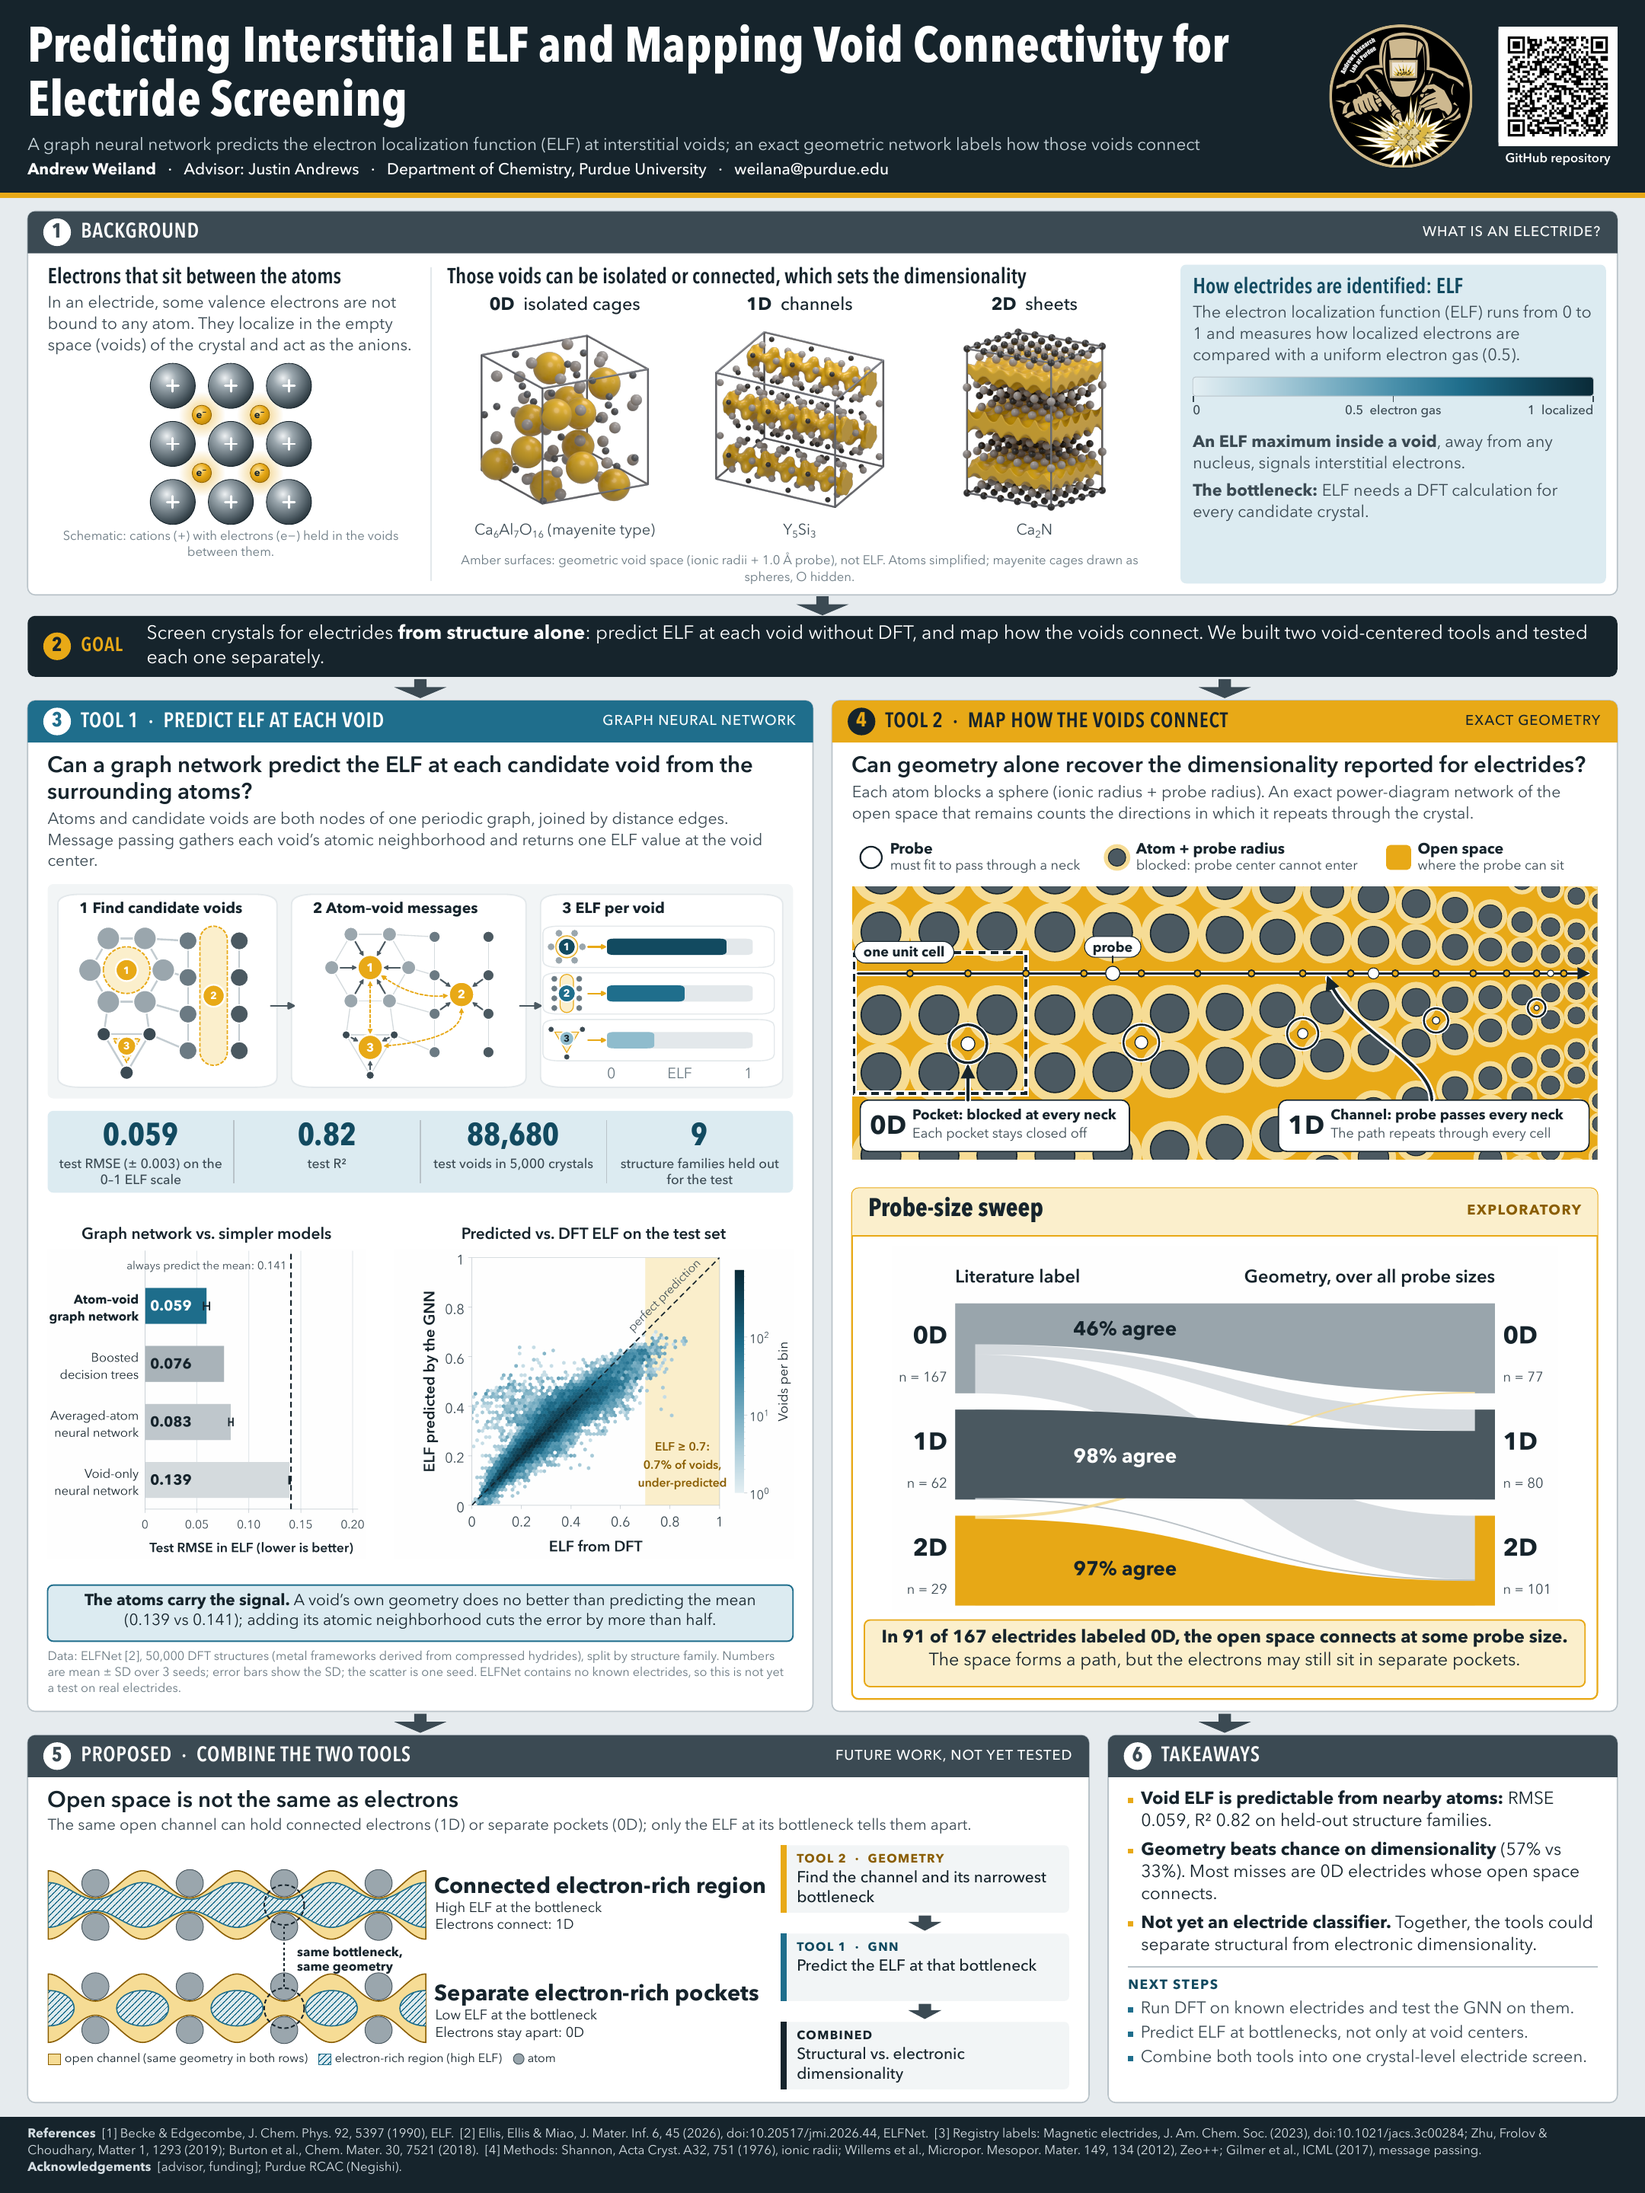
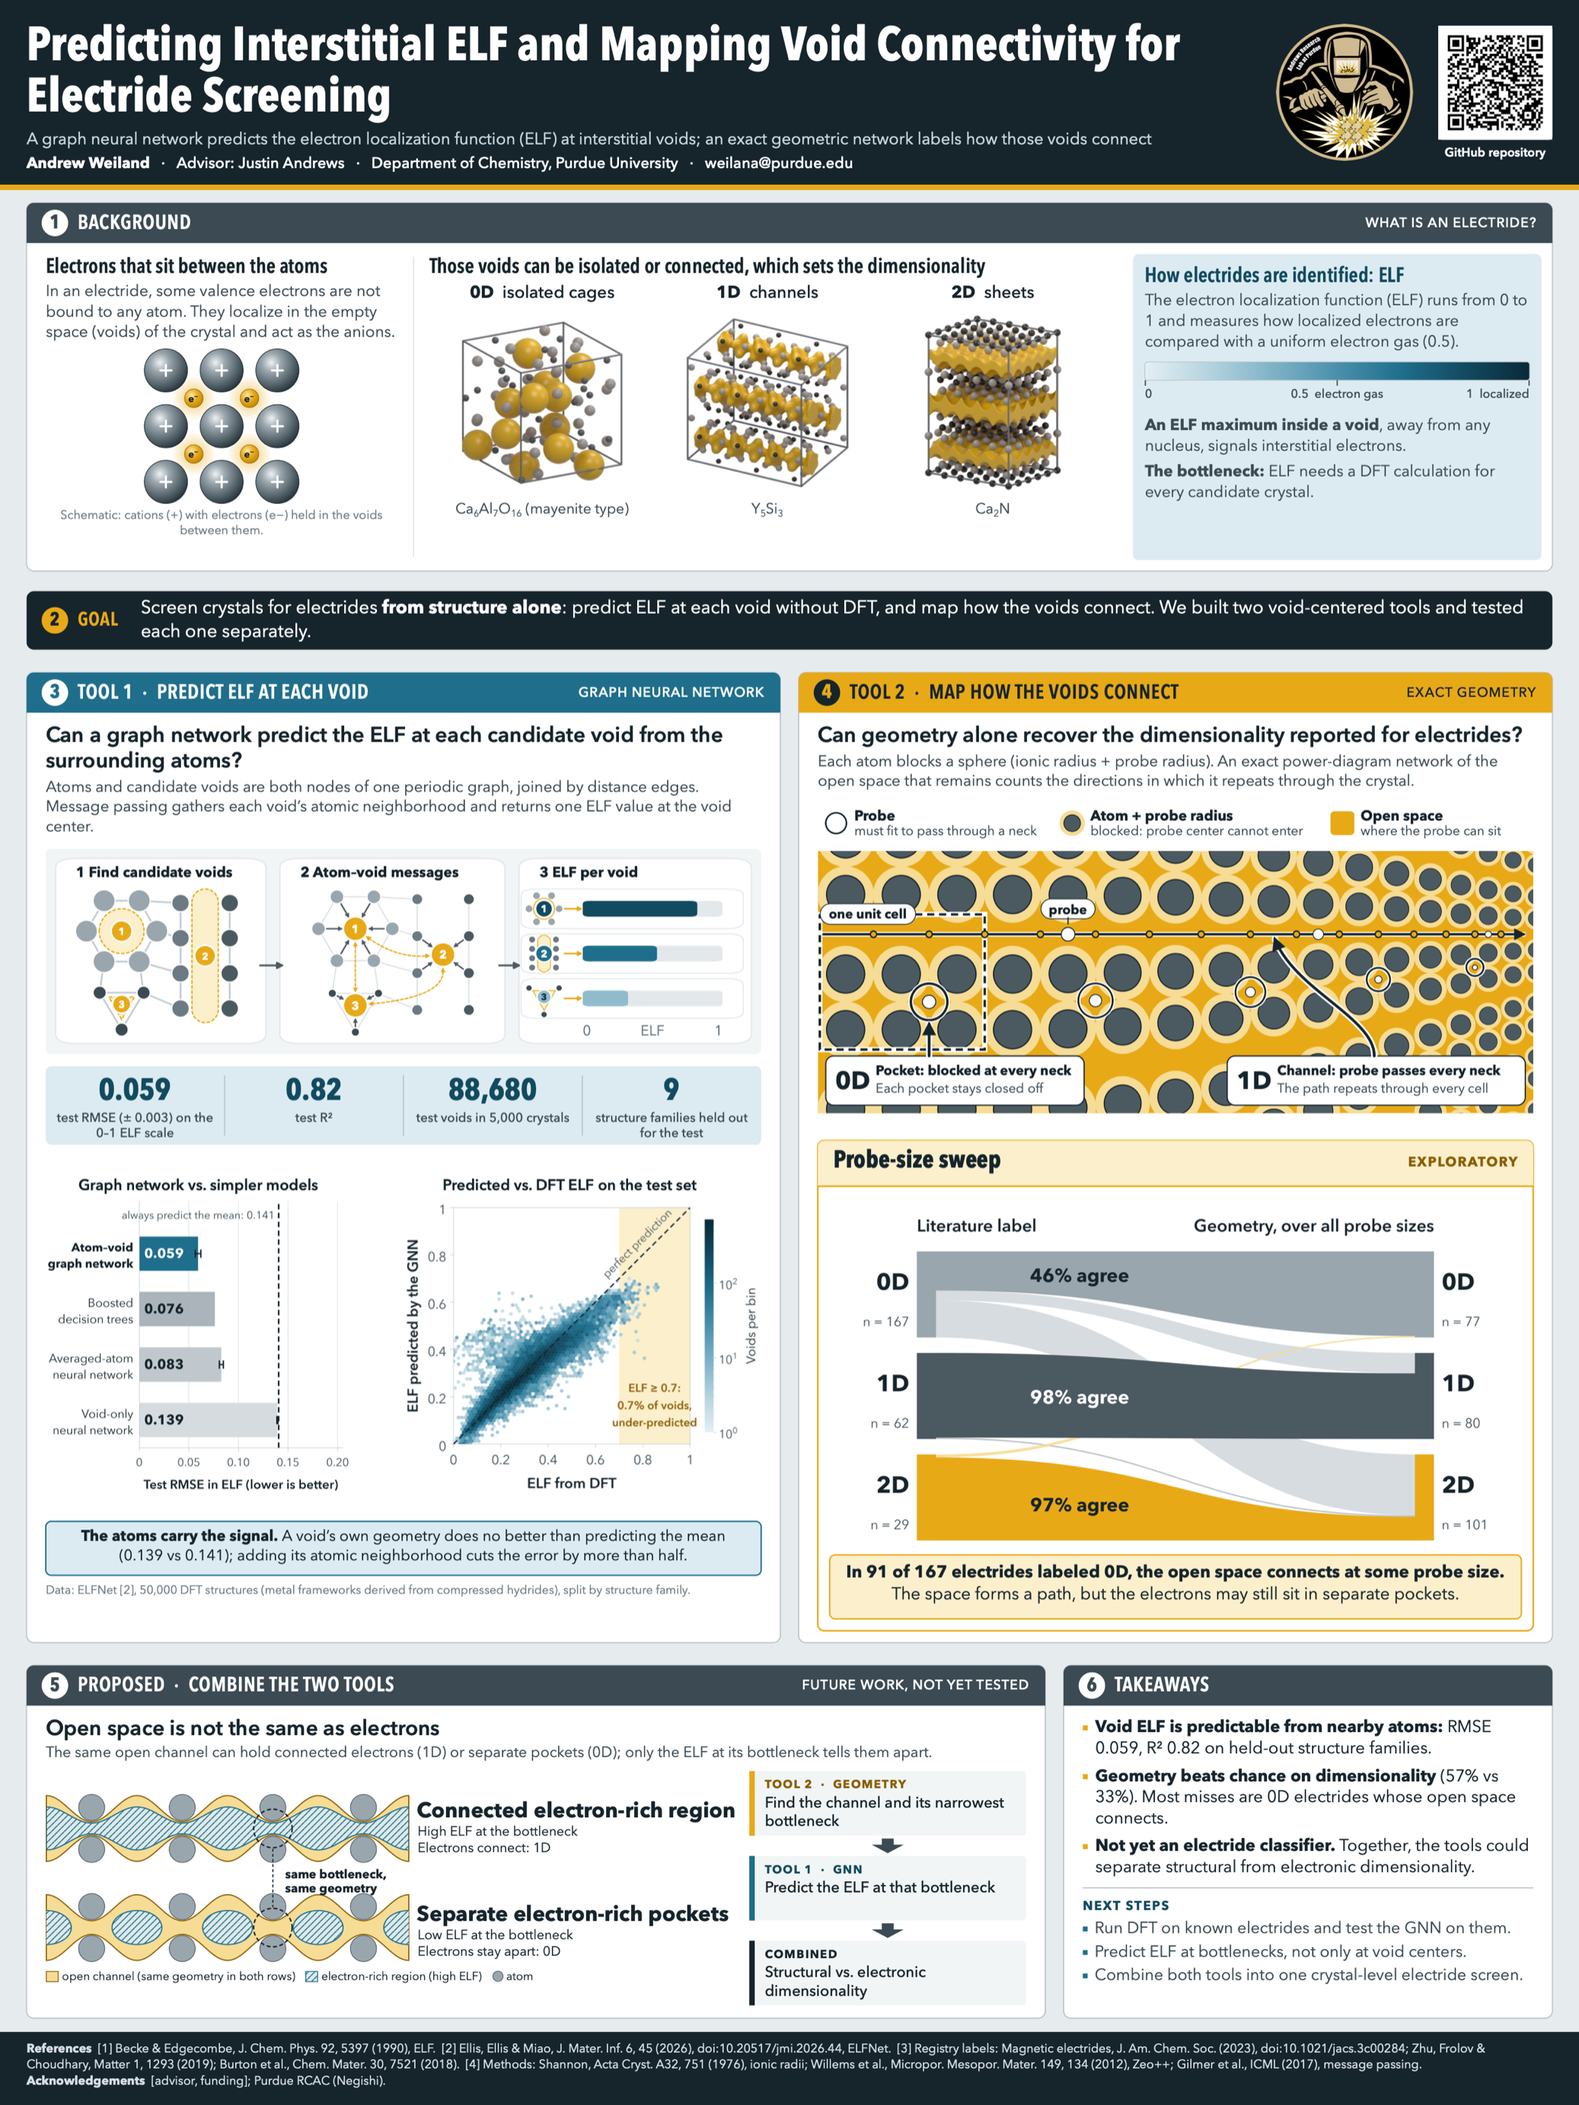
Poster v4: drop background figure note and section arrows, shorten Tool 1 data note

diff --git a/poster/build/build_poster_v4.py b/poster/build/build_poster_v4.py
@@ -305,8 +305,6 @@ for i, (k, label, formula) in enumerate(CRYSTALS):
     p.text(cx, y, cw, label, 28, T.INK, 500, align="center")
     p.image(f"diagrams/blender/crystals/electride_{k}_v2_transparent.png", cx + (cw - img) / 2, y + 44, img, img)
     p.text(cx, y + 44 + img + 4, cw, formula, 24, T.INK_2, align="center")
-p.text(bx, BG_Y + BG_H - 28 - 56, bw, "Amber surfaces: geometric void space (ionic radii + 1.0 Å probe), not ELF. "
-       "Atoms simplified; mayenite cages drawn as spheres, O hidden.", 20, T.MUTED, align="center", lh=1.3)
 
 ex = bx + bw + 60
 ew = W - M - PAD - ex
@@ -327,15 +325,12 @@ p.text(ix, y, iw, "**The bottleneck:** ELF needs a DFT calculation for every can
 
 # ---- 2 goal
 p.layer("2 Goal")
-p.arrow(W / 2, BG_Y + BG_H + 3)
 p.rect(M, GOAL_Y, W - 2 * M, GOAL_H, T.INK, 16, label="Goal band")
 p.o.append(f'<circle cx="{M + 62}" cy="{GOAL_Y + GOAL_H / 2}" r="29" fill="{T.GEO}"/>')
 p.text(M + 32, GOAL_Y + GOAL_H / 2 - 21, 60, "2", 31, T.INK, 700, T.HEAD, "center")
 p.text(M + 112, GOAL_Y + GOAL_H / 2 - 21, 200, "GOAL", 31, T.GEO, 600, T.HEAD, tracking=1.2)
 p.text(M + 250, GOAL_Y + 18, W - 2 * M - 250 - PAD, "Screen crystals for electrides **from structure alone**: predict ELF at each void without "
        "DFT, and map how the voids connect. We built two void-centered tools and tested each one separately.", 30, "#ffffff", 400, lh=1.3)
-for cx in (X1 + CW / 2, X2 + CW / 2):
-    p.arrow(cx, GOAL_Y + GOAL_H + 5)
 
 # ---- 3 tool 1
 p.layer("3 Tool 1: predict ELF")
@@ -365,9 +360,7 @@ p.image("figures/v4/gnn_parity_confirmation.png", x + cw1 + gap, ty + 46, cw2, c
 p.rect(x, bottom + 14, w, call_h, T.ELF_TINT, 12, T.ELF, 3, "Key finding")
 p.text(x + 30, bottom + 14 + 17, w - 60, f"**The atoms carry the signal.** A void’s own geometry does no better than predicting the mean "
        f"({VOID_ONLY:.3f} vs {MEAN_RMSE:.3f}); adding its atomic neighborhood cuts the error by more than half.", 25, T.INK, 400, align="center", lh=1.28)
-p.text(x, TOOL_Y + TOOL_H - 26 - foot_h, w, "Data: ELFNet [2], 50,000 DFT structures (metal frameworks derived from compressed hydrides), split by "
-       "structure family. Numbers are mean ± SD over 3 seeds; error bars show the SD; the scatter is one seed. "
-       "ELFNet contains no known electrides, so this is not yet a test on real electrides.", FOOT, T.MUTED, lh=1.3)
+p.text(x, TOOL_Y + TOOL_H - 26 - foot_h, w, "Data: ELFNet [2], 50,000 DFT structures (metal frameworks derived from compressed hydrides), split by structure family.", FOOT, T.MUTED, lh=1.3)
 
 # ---- 4 tool 2
 p.layer("4 Tool 2: map connectivity")
@@ -401,8 +394,6 @@ p.text(x + SP_PAD + 34, cy + 20, iw - 68, f"**In {N0_OPEN} of {N0} electrides la
 
 # ---- 5 combination
 p.layer("5 Proposed combination")
-for cx in (X1 + CW / 2, X2 + CW / 2):
-    p.arrow(cx, TOOL_Y + TOOL_H + 5)
 C5W = 2230
 top = p.card(M, ROW3_Y, C5W, ROW3_H, 5, "PROPOSED  ·  COMBINE THE TWO TOOLS", T.INK_2, tag="FUTURE WORK, NOT YET TESTED") + 28
 x, w5 = M + PAD, C5W - 2 * PAD
